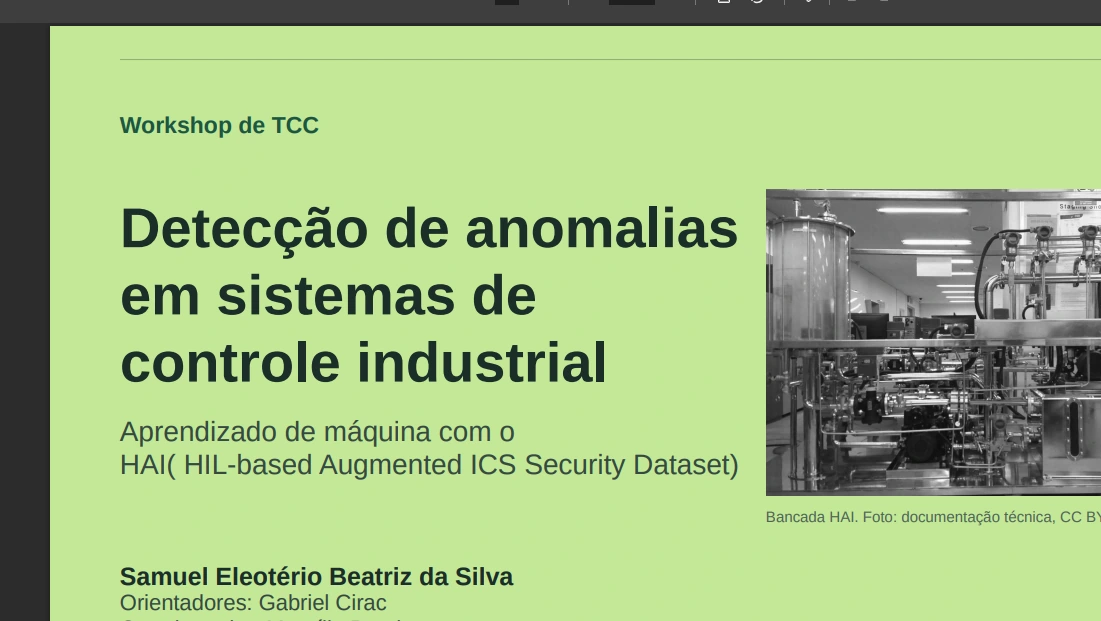
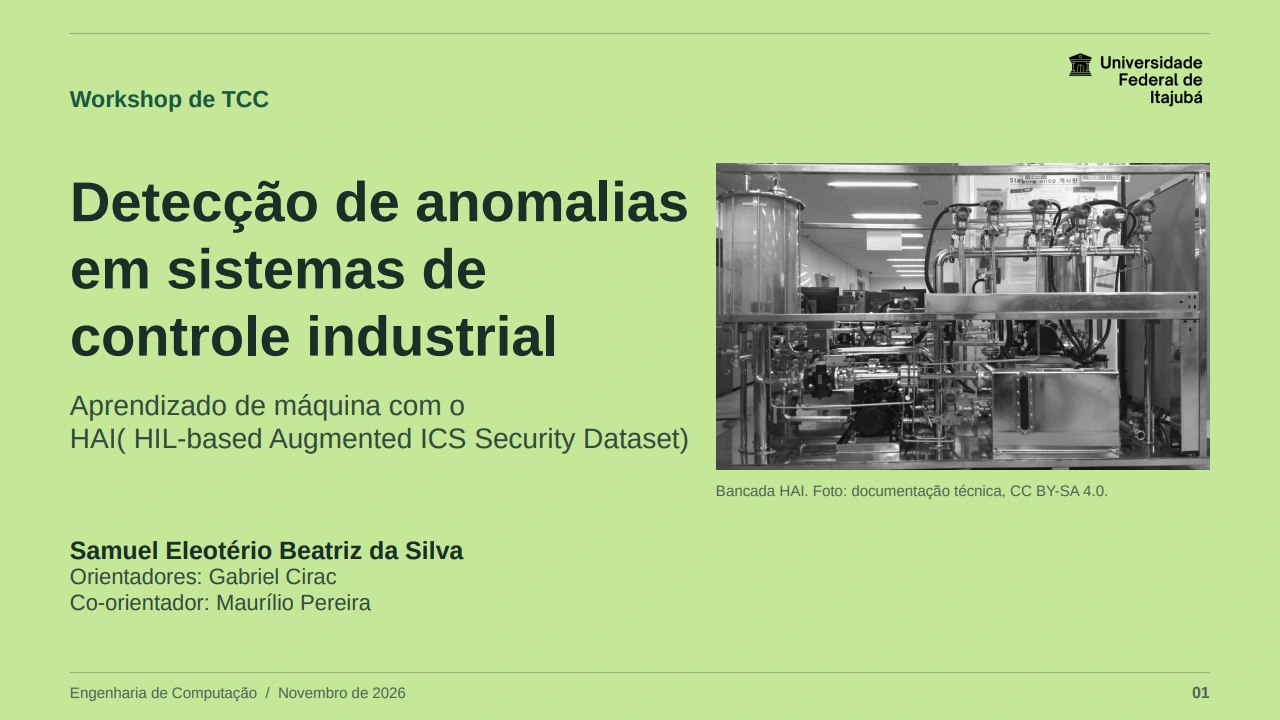
Centralizar capa do TCC e diagrama CI Expert sem cortes e em alta qualidade

diff --git a/index.html b/index.html
@@ -93,6 +93,15 @@
 .project-unigou img{object-fit:contain;background:#162337}
 .project-photo a:focus-visible,.project-unigou a:focus-visible{outline:3px solid #65e1c9;outline-offset:-3px}
 @media(max-width:590px){.project-photo,.project-cover-tcc,.project-unigou{height:200px}.project-diagram{height:215px}}
+
+/* Cartões 01 e 03: mostrar as imagens originais completas, sem cortes ou deslocamentos. */
+.project-cover-tcc{background:#c1e69c;overflow:hidden}
+.project-cover-tcc a{display:flex;width:100%;height:100%;align-items:center;justify-content:center}
+.project-cover-tcc img{display:block;width:100%;height:100%;object-fit:contain;object-position:center center}
+.project-cover-tcc::after{display:none}
+.project-diagram{background:#fff;overflow:hidden}
+.project-diagram a{display:flex;width:100%;height:100%;align-items:center;justify-content:center}
+.project-diagram img{display:block;width:100%;height:100%;object-fit:contain;object-position:center center}
 </style>
   
 </head>
@@ -178,7 +187,7 @@
       <div class="section-heading reveal"><p class="section-kicker">02 / PORTFÓLIO</p><h2 id="projects-title">Projetos em destaque<span class="punctuation">.</span></h2><p>Alguns trabalhos que representam minhas áreas de interesse e atuação.</p></div>
       <div class="projects-grid">
         <article class="project-card reveal">
-          <div class="project-art project-photo project-cover-tcc"><a href="assets/tcc-capa-projeto-01.webp" target="_blank" rel="noopener noreferrer" aria-label="Ampliar capa da apresentação do TCC"><img src="assets/tcc-capa-projeto-01.webp" alt="Capa do Workshop de TCC sobre detecção de anomalias em sistemas de controle industrial" width="1101" height="621" loading="lazy" decoding="async"></a></div>
+          <div class="project-art project-photo project-cover-tcc"><a href="assets/tcc-capa-projeto-01.webp" target="_blank" rel="noopener noreferrer" aria-label="Ampliar capa da apresentação do TCC"><img src="assets/tcc-capa-projeto-01.webp" alt="Capa do Workshop de TCC sobre detecção de anomalias em sistemas de controle industrial" width="1280" height="720" loading="lazy" decoding="async"></a></div>
           <div class="project-body"><span class="project-number">PROJETO 01 · TCC</span><h3>Detecção de anomalias em sistemas industriais</h3><p>Pesquisa com o HAI Dataset para avaliar técnicas de Machine Learning na identificação de comportamentos anômalos e possíveis ataques em sistemas de controle industrial.</p><div class="stack"><span>Python</span><span>Random Forest</span><span>Scikit-learn</span><span>HAI Dataset</span></div></div>
         </article>
         <article class="project-card reveal">
@@ -186,7 +195,7 @@
           <div class="project-body"><span class="project-number">PROJETO 02 · MIDEA × UNIFEI</span><h3>Análise de sinais e áudio com IA</h3><p>Projeto acadêmico aplicado à análise de ruídos de máquinas de lavar, utilizando extração de características acústicas, espectrogramas e técnicas de análise de dados.</p><div class="stack"><span>Python</span><span>FFT</span><span>MFCC</span><span>Processamento de sinais</span></div></div>
         </article>
         <article class="project-card reveal">
-          <div class="project-art project-diagram"><a href="assets/ci-expert-diagrama.webp" target="_blank" rel="noopener noreferrer" aria-label="Ampliar diagrama estrutural do processador multiciclo"><img src="assets/ci-expert-diagrama.webp" alt="Diagrama estrutural do datapath do processador multiciclo do projeto CI Expert, mostrando ALU, registradores, memória, multiplexadores e controle" width="590" height="310" loading="lazy" decoding="async"></a></div>
+          <div class="project-art project-diagram"><a href="assets/ci-expert-diagrama.png" target="_blank" rel="noopener noreferrer" aria-label="Ampliar diagrama estrutural do processador multiciclo"><img src="assets/ci-expert-diagrama.png" alt="Diagrama estrutural do datapath do processador multiciclo do projeto CI Expert, mostrando ALU, registradores, memória, multiplexadores e controle" width="595" height="306" loading="lazy" decoding="async"></a></div>
           <div class="project-body"><span class="project-number">PROJETO 03 · CI EXPERT</span><h3>Processador multiciclo</h3><p>Projeto de arquitetura e implementação de um processador multiciclo, explorando lógica digital, descrição de hardware e verificação funcional.</p><div class="stack"><span>Verilog</span><span>SystemVerilog</span><span>RTL</span><span>Simulação</span></div></div>
         </article>
         <article class="project-card reveal">
